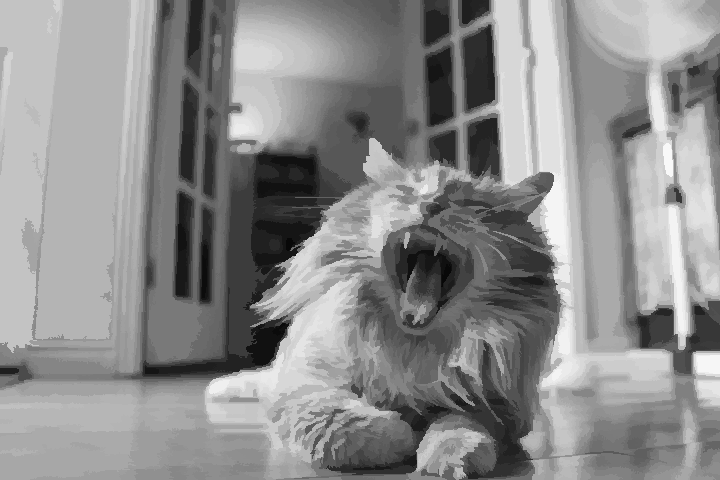
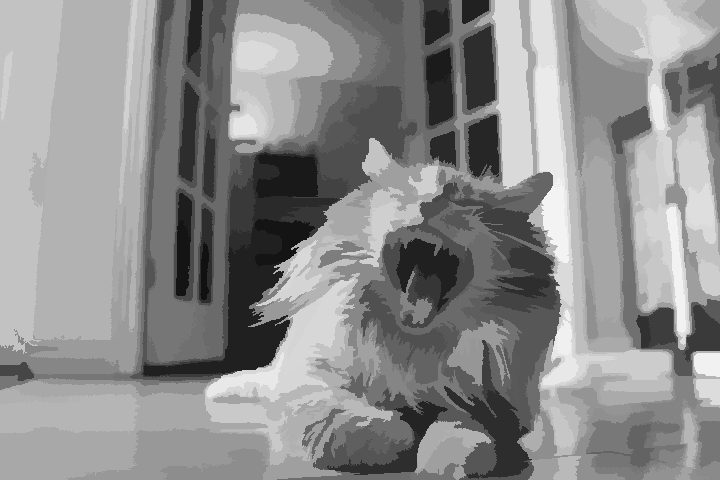
update scikit_clustering method

diff --git a/scikit-learn_mean_shift_segmentation.py b/scikit-learn_mean_shift_segmentation.py
@@ -1,0 +1,41 @@
+from sklearn.cluster import MeanShift, estimate_bandwidth
+import numpy as np
+import cv2
+
+original_image = cv2.imread("right_img.png")
+blurimg = cv2.medianBlur(original_image, 3)
+# bgrimg = cv2.cvtColor(original_image, cv2.COLOR_BGR2GRAY)
+flat_image = blurimg.reshape((-1,3))
+flat_image = np.float32(flat_image) 
+bandwidth = estimate_bandwidth(flat_image, quantile=.06, n_samples=3000)
+ms = MeanShift(bandwidth=bandwidth, max_iter=800, bin_seeding=True)
+ms.fit(flat_image)
+labeled = ms.labels_
+
+segments = np.unique(labeled)
+print('Number of segments: ', segments.shape[0])
+print("cluster centroids", ms.cluster_centers_)
+print("length of centroid matrix", len(ms.cluster_centers_))
+
+# get the average color of each segment
+total = np.zeros((segments.shape[0], 3), dtype=float)
+count = np.zeros(total.shape, dtype=float)
+for i, label in enumerate(labeled):
+    total[label] = total[label] + flat_image[i]
+    count[label] += 1
+avg = total/count
+avg = np.uint8(avg)
+
+# cast the labeled image into the corresponding average color
+res = avg[labeled]
+result = res.reshape((blurimg.shape))
+
+cv2.imshow('result',result)
+cv2.imwrite("right_image.png",result)
+cv2.waitKey(0)
+cv2.destroyAllWindows()
+
+
+# print("cluster labels", clustering.labels_)
+
+# cv2.imwrite('scikit_clustering.png', clustering.labels_)

diff --git a/mean_shift_segmentation.py b/mean_shift_segmentation.py
@@ -5,14 +5,14 @@ original_image = cv2.imread("example-orig.jpg")
 
 bgrimg = cv2.cvtColor(original_image, cv2.COLOR_BGR2GRAY) 
 
-(segmented_image, labels_image, number_regions) = pms.segment(bgrimg, spatial_radius=6, 
-                                                              range_radius=4.5, min_density=50)
+(segmented_image, labels_image, number_regions) = pms.segment(bgrimg, spatial_radius=10, 
+                                                              range_radius=10, min_density=300)
 
 # img = cv2.cvtColor(segmented_image, cv2.COLOR_BGR2GRAY)                                                         
 
 ret, thresh = cv2.threshold(segmented_image,0,255,cv2.THRESH_BINARY+cv2.THRESH_OTSU)
 
-connectivity = 4 
+connectivity = 8 
 
 output = cv2.connectedComponentsWithStats(thresh, connectivity, cv2.CV_32S)
 
